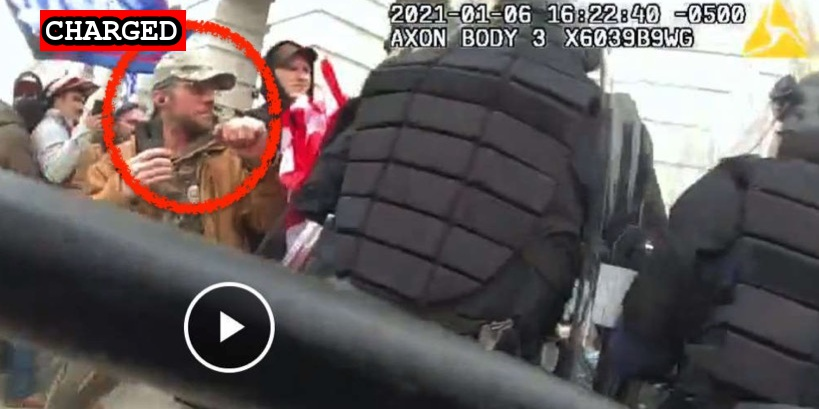
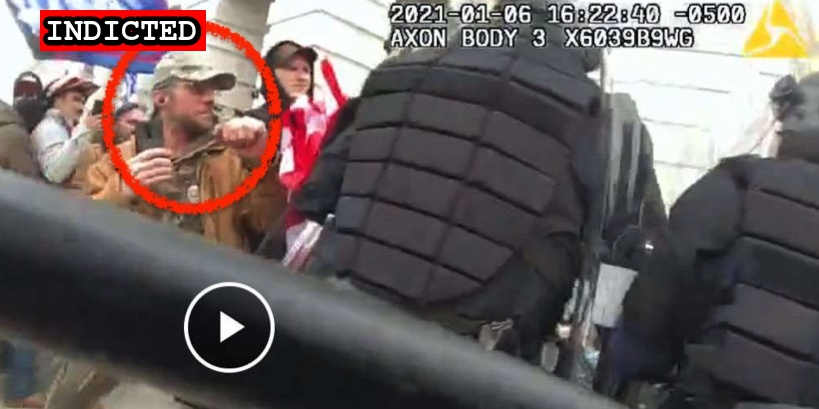
Latest import

Changed region(s): [[0.0305, 0.0, 0.2747, 0.1467]]

diff --git a/commands/suspect-import.ts b/commands/suspect-import.ts
@@ -519,7 +519,6 @@ const addData = (suspectData) => {
 
   if (!nameSet.has(nameToCheck)) {
     // suspect does not yet exist in our database so let's add them
-    console.log({ nameToCheck });
     newSuspect(suspectData);
     return;
   }

diff --git a/docs/_suspects/jeremy-brown.md b/docs/_suspects/jeremy-brown.md
@@ -1,0 +1,41 @@
+---
+name: Jeremy Brown
+lastName: Brown
+hashtag:
+aka:
+residence: Florida
+status: Charged
+date: 2021-09-29
+charged: 2021-09-29
+indicted:
+convicted:
+sentenced:
+dismissed:
+deceased:
+plea_hearing:
+sentencing:
+age:
+occupation:
+affiliations: Oath Keepers
+jurisdiction: Federal
+image: /images/preview/jeremy-brown.jpg
+suspect: jeremy-brown.jpg
+booking:
+courtroom:
+courthouse:
+raid:
+perpwalk:
+quote:
+title: Jeremy Brown charged on September 29, 2021
+description: Click for latest case details. Suspects innocent until proven guilty.
+author: seditiontrack
+layout: suspect
+published: false
+caseNumber:
+videos:
+charges:
+sentence:
+---
+
+- [News Report]()
+- [Statement of Facts](https://extremism.gwu.edu/sites/g/files/zaxdzs2191/f/Jeremy%20Brown%20Statement%20of%20Facts.pdf)

diff --git a/docs/_suspects/jeffrey-brown.md b/docs/_suspects/jeffrey-brown.md
@@ -16,7 +16,7 @@ plea_hearing:
 sentencing:
 age: 54
 occupation:
-affiliations:
+affiliations: Oath Keepers
 jurisdiction: Federal
 image: /images/preview/jeffrey-brown.jpg
 suspect: jeffrey-brown.jpg
@@ -36,6 +36,7 @@ videos:
 charges:
 sentence:
 ---
+
 - [News Report](https://theavtimes.com/2021/08/26/two-socal-men-arrested-for-assault-on-law-enforcement-at-capitol-riot/)
 - [Statement of Facts](https://www.justice.gov/usao-dc/case-multi-defendant/file/1428081/download)
 - [DOJ Press Release](https://www.justice.gov/usao-dc/pr/california-men-arrested-assault-law-enforcement-during-jan-6-capitol-breach)

diff --git a/docs/_suspects/kenneth-thomas.md b/docs/_suspects/kenneth-thomas.md
@@ -4,10 +4,10 @@ lastName: Thomas
 hashtag: TanOnCamo
 aka: Pi Annon
 residence: Ohio
-status: Charged
+status: Indicted
 date: 2021-05-25
 charged: 2021-05-25
-indicted:
+indicted: 2021-09-01
 convicted:
 sentenced:
 dismissed:
@@ -39,3 +39,4 @@ sentence:
 
 - [News Report](https://pittsburgh.cbslocal.com/2021/05/27/ohio-man-charged-with-assaulting-officers-in-us-capitol-riot/)
 - [Statement of Facts](https://www.justice.gov/usao-dc/case-multi-defendant/file/1398806/download)
+- [Indictment](https://extremism.gwu.edu/sites/g/files/zaxdzs2191/f/Kenneth%20Thomas%20Indictment.pdf)
